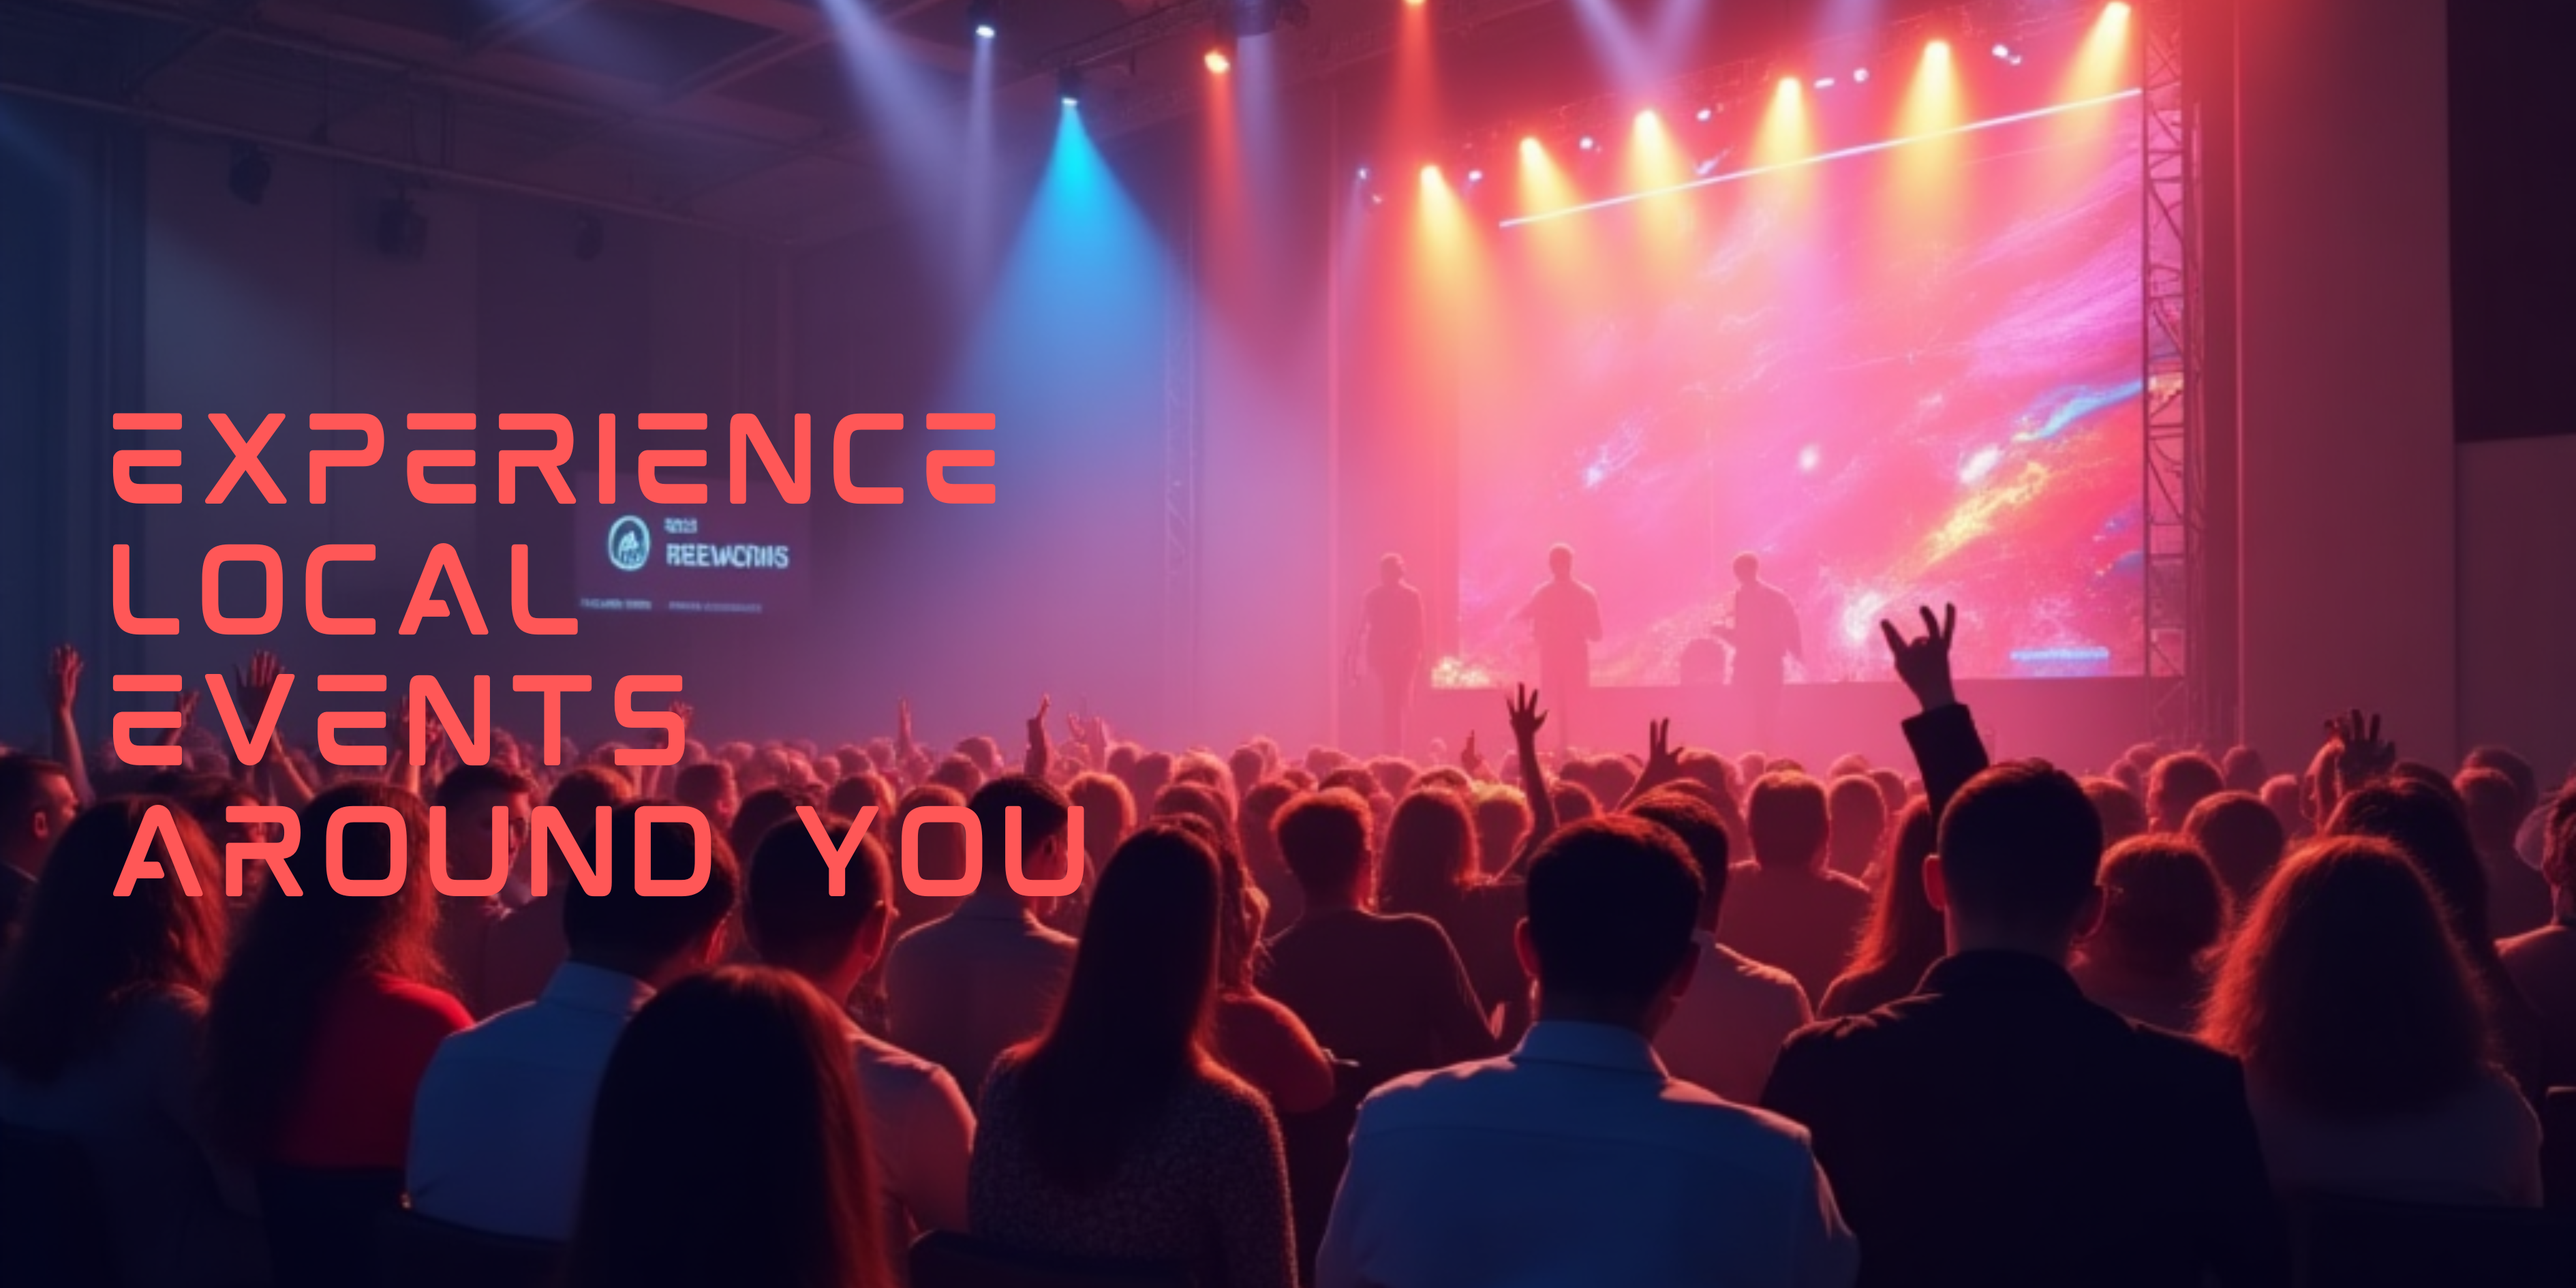
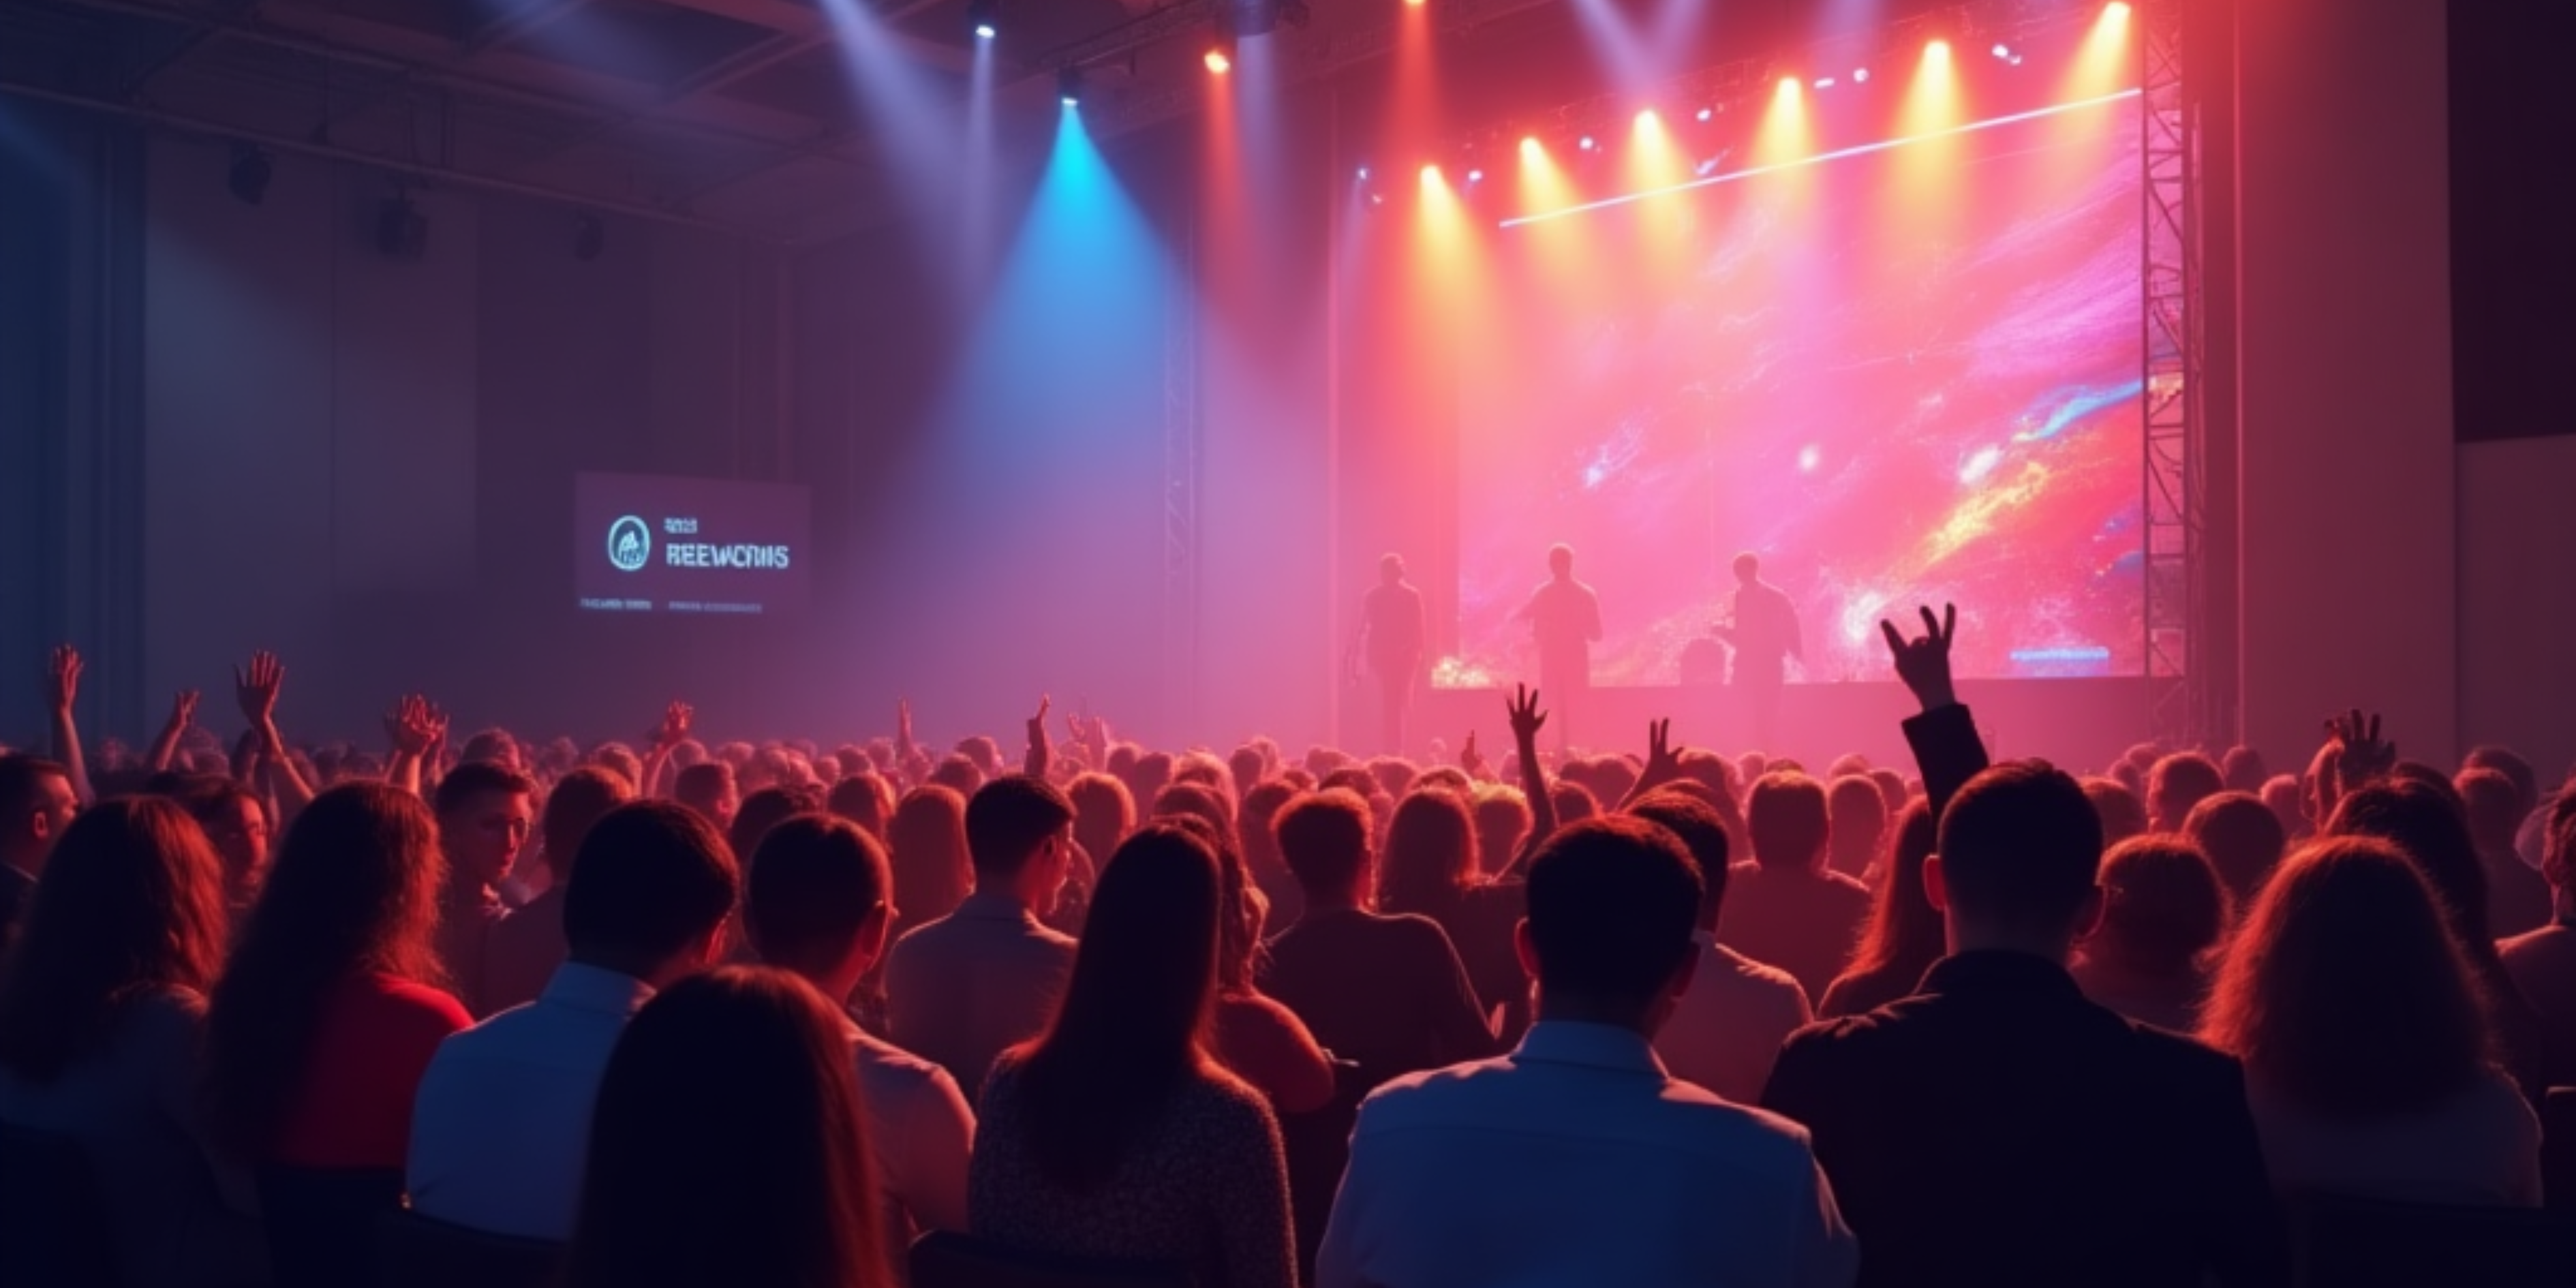
version 19

Changed region(s): [[0.0312, 0.3122, 0.4058, 0.5931], [0.0312, 0.6243, 0.281, 0.718], [0.3122, 0.6243, 0.437, 0.718]]

diff --git a/src/components/Slider/ImageSlider.tsx b/src/components/Slider/ImageSlider.tsx
@@ -2,6 +2,7 @@ import React, { useState, useEffect } from "react";
 
 interface Slide {
   url: string;
+  text: string; // Add a text property for each slide
 }
 
 interface ImageSliderProps {
@@ -15,6 +16,19 @@ const slideStyles: React.CSSProperties = {
   backgroundPosition: "center",
   transition: "background-image 1s ease-in-out",
   marginTop: "20px",
+  position: "relative", // Make the slide position relative for text overlay
+};
+
+const textOverlayStyles: React.CSSProperties = {
+  position: "absolute",
+  bottom: "20px",
+  left: "20px",
+  color: "#fff",
+  backgroundColor: "rgba(0, 0, 0, 0.5)", // Semi-transparent background for better readability
+  padding: "10px 20px",
+  borderRadius: "5px",
+  fontSize: "18px",
+  fontWeight: "bold",
 };
 
 const rightArrowStyles: React.CSSProperties = {
@@ -69,7 +83,7 @@ const ImageSlider: React.FC<ImageSliderProps> = ({ slides }) => {
     setCurrentIndex(newIndex);
   };
 
-  const slideStylesWidthBackground: React.CSSProperties = {
+  const slideStylesWithBackground: React.CSSProperties = {
     ...slideStyles,
     backgroundImage: `url(${slides[currentIndex].url})`,
   };
@@ -84,7 +98,10 @@ const ImageSlider: React.FC<ImageSliderProps> = ({ slides }) => {
           ❱
         </div>
       </div>
-      <div style={slideStylesWidthBackground}></div>
+      <div style={slideStylesWithBackground}>
+        {/* Text overlay */}
+        <div style={textOverlayStyles}>{slides[currentIndex].text}</div>
+      </div>
     </div>
   );
 };

diff --git a/src/components/Slider/Slides.tsx b/src/components/Slider/Slides.tsx
@@ -1,30 +1,21 @@
+import React from "react";
 import ImageSlider from "./ImageSlider";
 
-interface Slide {
-  url: string;
-  title: string;
-}
-
 const Slides: React.FC = () => {
-  const slides: Slide[] = [
-    { url: "/cover/1.png", title: "chillz" },
-    { url: "/cover/2.png", title: "chillz" },
-    { url: "/cover/3.png", title: "chillz" },
-    { url: "/cover/1.png", title: "chillz" },
-    { url: "/cover/2.png", title: "chillz" },
+  const slides = [
+    {
+      url: "/cover/1.png",
+      text: "Welcome, Explore a World of Events",
+    },
+    { url: "/cover/2.png", text: "Discover Amazing Events" },
+    { url: "/cover/3.png", text: "Join the Community" },
+    { url: "/cover/1.png", text: "Create Your Own Events" },
+    { url: "/cover/2.png", text: "Experience Local Events around you" },
   ];
-
-  const containerStyles: React.CSSProperties = {
-    width: "100%",
-    height: "300px",
-    margin: "0 auto",
-  };
 
   return (
     <div>
-      <div style={containerStyles}>
-        <ImageSlider slides={slides} />
-      </div>
+      <ImageSlider slides={slides} />
     </div>
   );
 };
